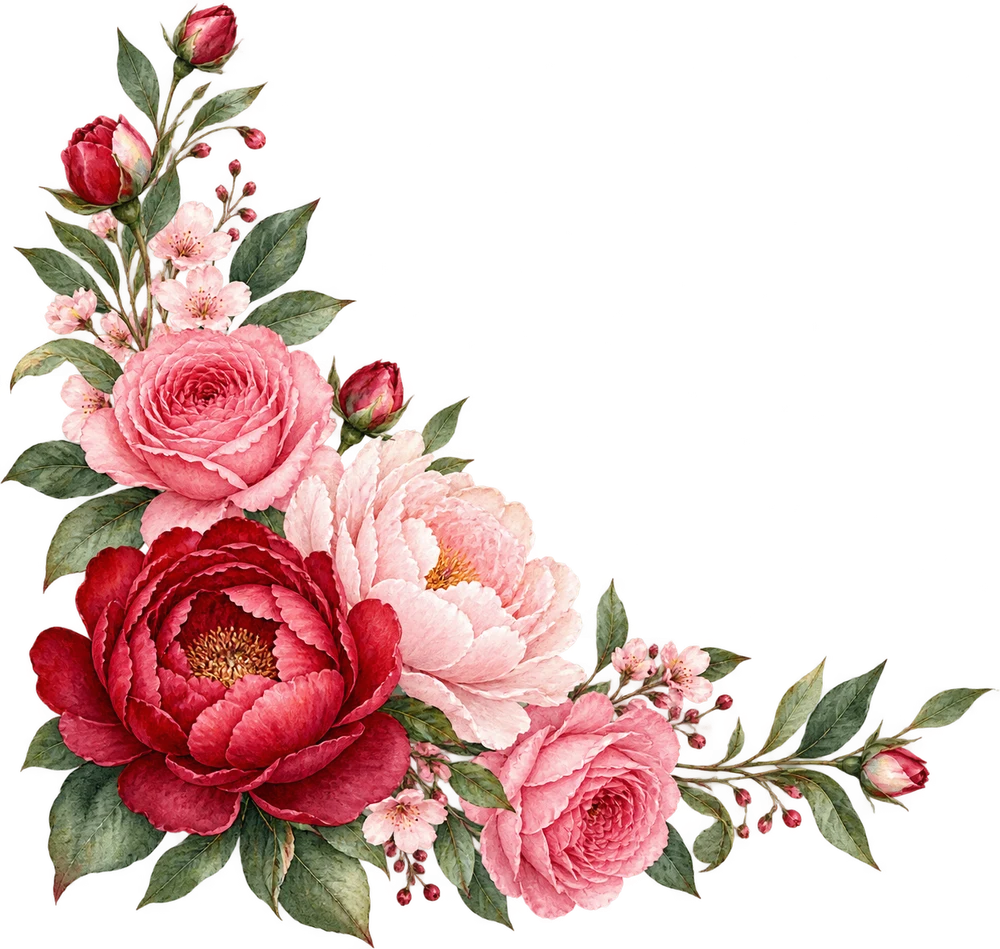
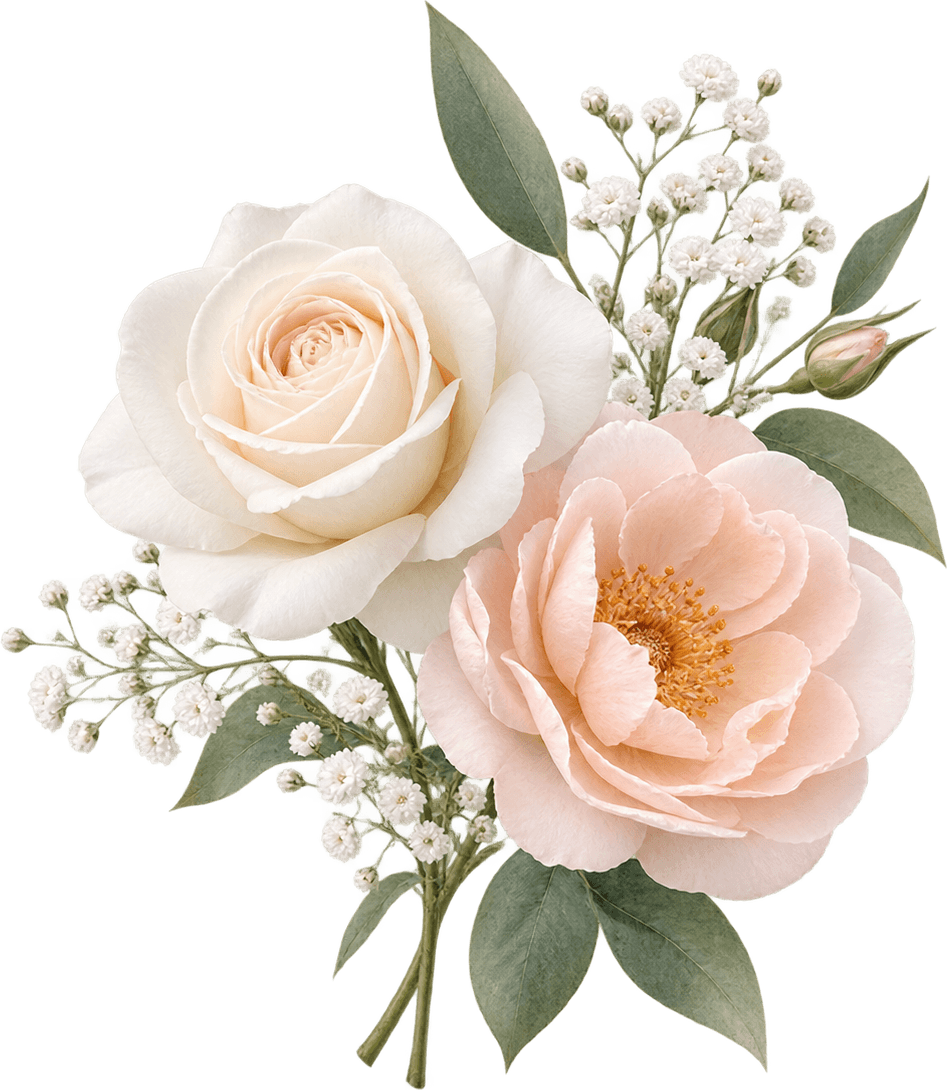
fix(dusty-rose): replace flower asset with romantic dusty rose bouquet and align framing with champagne ivory

diff --git a/components/templates/dusty-rose/dusty-rose-invitation.tsx b/components/templates/dusty-rose/dusty-rose-invitation.tsx
@@ -57,7 +57,7 @@ export function DustyRoseInvitationView({
     <PreweddingClientApp
       themeClass={styles.themeDustyRose}
       dividerIcon="❀"
-      flowerPath="/media/prewedding/dusty-rose/dusty-rose-flower.png"
+      flowerPath="/media/prewedding/dusty-rose/dusty-rose-flower-v2.png"
       invitation={invitation}
       greetings={greetings}
       guestName={guestName}
